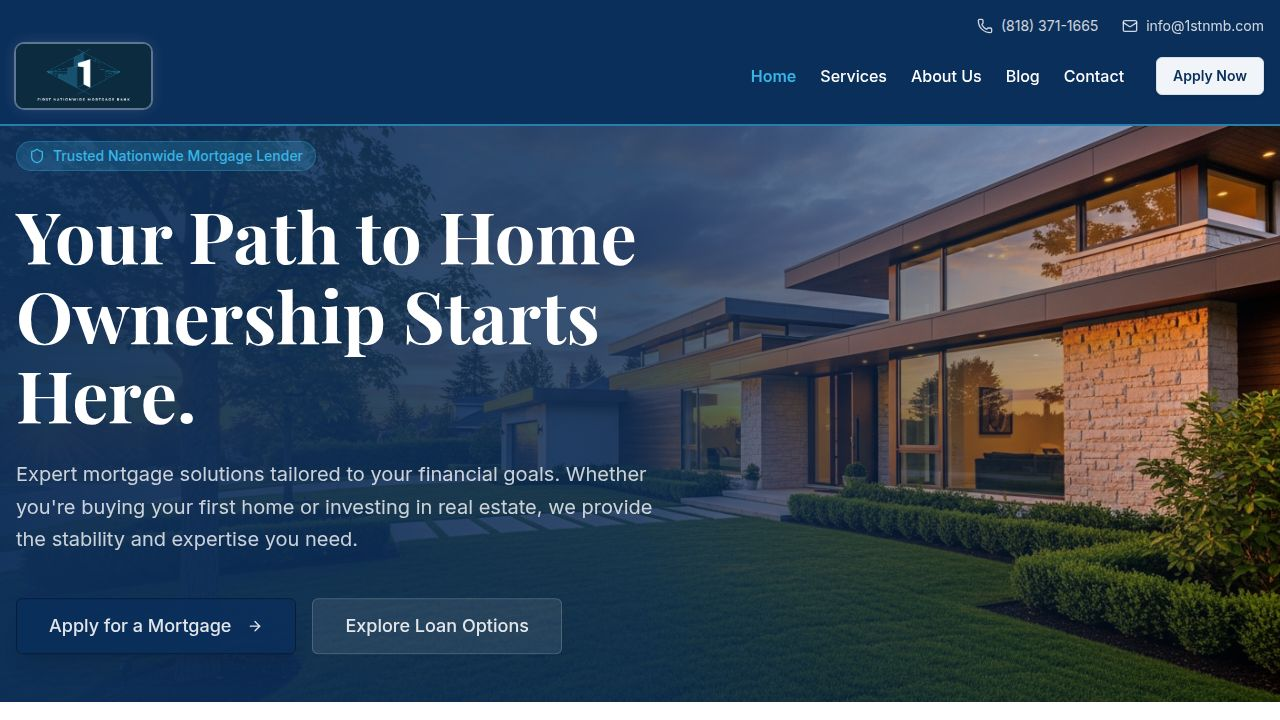
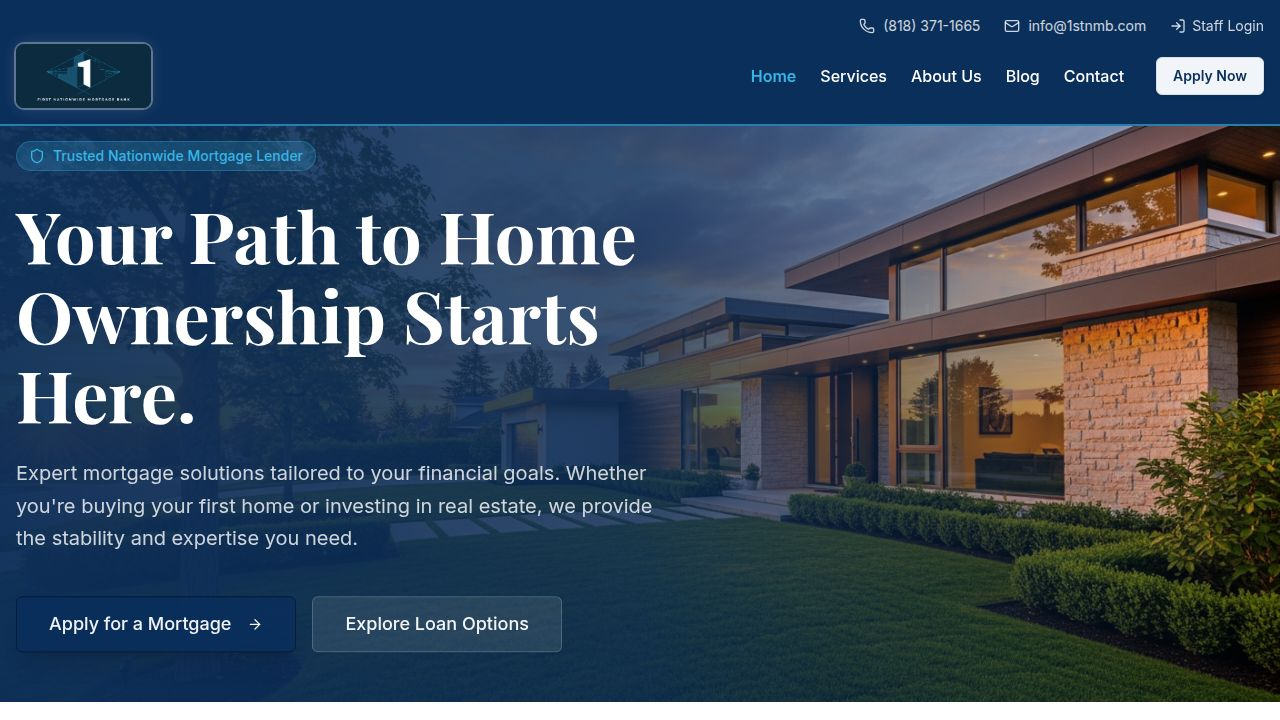
Add staff login link to website header, mobile menu, and footer
Integrates a "Staff Login" link in the Navbar component (including mobile view), Footer component, and uses a new constant for the CRM URL. Also imports the LogIn icon.

Replit-Commit-Author: Agent
Replit-Commit-Session-Id: 05825e4e-1232-4560-b57c-532d849d1050
Replit-Commit-Checkpoint-Type: full_checkpoint
Replit-Commit-Event-Id: 8c217e43-d01d-436d-9a31-e6bb0dbbccd4
Replit-Commit-Screenshot-Url: https://storage.googleapis.com/screenshot-production-us-central1/9c2137ff-0afb-415a-95eb-2a86edb9d733/05825e4e-1232-4560-b57c-532d849d1050/o0n3sUE
Replit-Helium-Checkpoint-Created: true

diff --git a/artifacts/fnmb-website/src/components/layout/Navbar.tsx b/artifacts/fnmb-website/src/components/layout/Navbar.tsx
@@ -1,8 +1,10 @@
 import { useState, useEffect } from "react";
 import { Link, useLocation } from "wouter";
-import { Menu, X, Phone, Mail } from "lucide-react";
+import { Menu, X, Phone, Mail, LogIn } from "lucide-react";
 import { Button } from "@/components/ui/button";
 import logoImg from "@assets/image_1781355777242.png";
+
+const CRM_URL = "https://f412641e-a0a0-4bdf-8119-de0aab8bc50f-00-2z44bpfoa3ie3.picard.replit.dev";
 
 export function Navbar() {
   const [isOpen, setIsOpen] = useState(false);
@@ -43,6 +45,15 @@ export function Navbar() {
           <Mail className="h-4 w-4" />
           <span>info@1stnmb.com</span>
         </div>
+        <a
+          href={CRM_URL}
+          target="_blank"
+          rel="noopener noreferrer"
+          className="flex items-center gap-1.5 hover:text-accent transition-colors"
+        >
+          <LogIn className="h-4 w-4" />
+          <span>Staff Login</span>
+        </a>
       </div>
 
       <div className="container mx-auto px-4 flex justify-between items-center">
@@ -127,6 +138,16 @@ export function Navbar() {
               <span>info@1stnmb.com</span>
             </div>
           </div>
+          <a
+            href={CRM_URL}
+            target="_blank"
+            rel="noopener noreferrer"
+            className="flex items-center justify-center gap-1.5 text-sm text-muted-foreground border border-border rounded-lg py-2.5 mt-2"
+            onClick={() => setIsOpen(false)}
+          >
+            <LogIn className="h-4 w-4" />
+            <span>Staff Login</span>
+          </a>
         </div>
       )}
     </header>

diff --git a/artifacts/fnmb-website/src/components/layout/Footer.tsx b/artifacts/fnmb-website/src/components/layout/Footer.tsx
@@ -96,6 +96,14 @@ export function Footer() {
             <a href="#" className="hover:text-accent transition-colors">Privacy Policy</a>
             <a href="#" className="hover:text-accent transition-colors">Terms of Service</a>
             <a href="#" className="hover:text-accent transition-colors">Accessibility</a>
+            <a
+              href="https://f412641e-a0a0-4bdf-8119-de0aab8bc50f-00-2z44bpfoa3ie3.picard.replit.dev"
+              target="_blank"
+              rel="noopener noreferrer"
+              className="hover:text-accent transition-colors"
+            >
+              Staff Login
+            </a>
           </div>
         </div>
       </div>

diff --git a/artifacts/fnmb-website/src/pages/Admin.tsx b/artifacts/fnmb-website/src/pages/Admin.tsx
@@ -163,6 +163,7 @@ export default function Admin() {
       const interval = setInterval(() => fetchApplications(password), 30000);
       return () => clearInterval(interval);
     }
+    return undefined;
   }, [password]);
 
   if (!password) return <LoginScreen onLogin={handleLogin} />;
